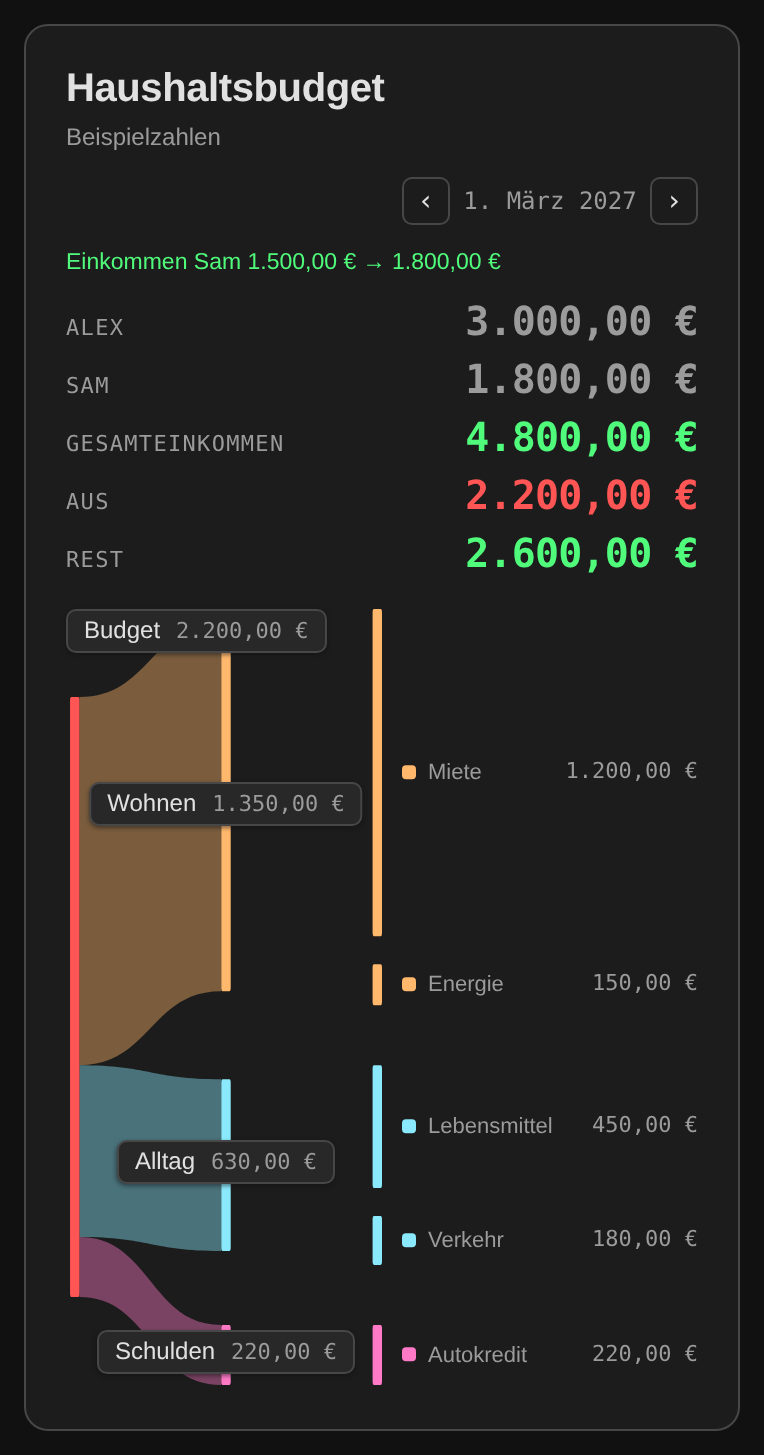
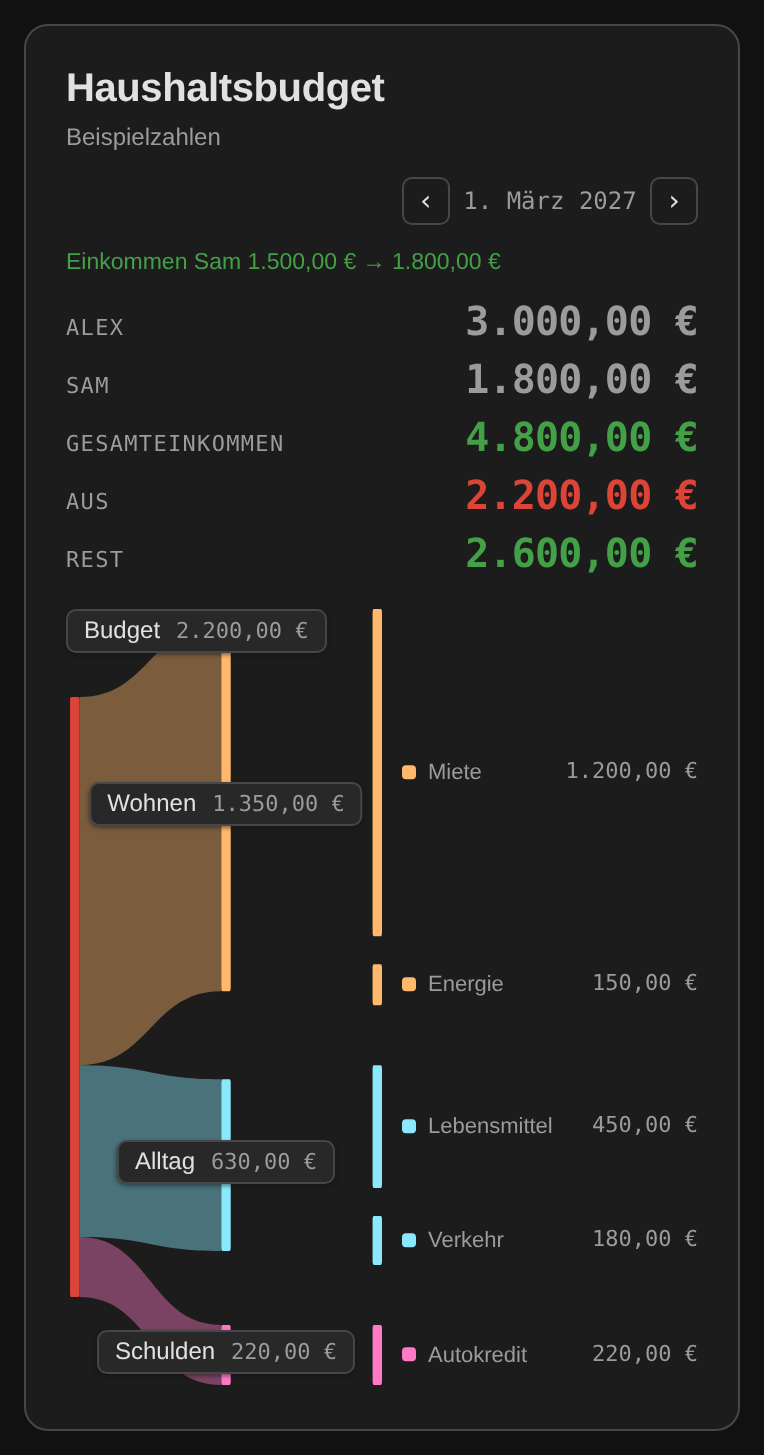
Take money colours from the Home Assistant theme
The fixed green and red were unreadable on light themes. Default to
--success-color and --error-color, keeping the old values as fallbacks,
and regenerate the screenshots.

diff --git a/test/budget-sankey-card.core.test.js b/test/budget-sankey-card.core.test.js
@@ -456,6 +456,11 @@ test("a hass update that leaves the money settings alone does not redraw", () =>
   assert.equal(html(el), "untouched");
 });
 
+test("money colours default to the Home Assistant theme", () => {
+  assert.equal(VIZ.moneyIn, "var(--success-color, #50fa7b)");
+  assert.equal(VIZ.moneyOut, "var(--error-color, #ff5555)");
+});
+
 test("fmt groups four-digit amounts in every locale", () => {
   assert.equal(fmt(1800, { currency: "PLN", locale: "pl" }), "1\u00a0800,00\u00a0zł");
   assert.equal(fmt(1800, { currency: "EUR", locale: "it" }), "1.800,00\u00a0€");

diff --git a/budget-sankey-card.js b/budget-sankey-card.js
@@ -30,8 +30,8 @@ const VIZ = {
   textPrimary: themeVar("text"),
   textSecondary: themeVar("text_secondary"),
   textMuted: themeVar("text_muted"),
-  moneyOut: "#ff5555",
-  moneyIn: "#50fa7b",
+  moneyOut: "var(--error-color, #ff5555)",
+  moneyIn: "var(--success-color, #50fa7b)",
   pending: "#ffb86c",
   accent: "#bd93f9",
   shadow1: themeVar("chip_shadow"),

diff --git a/README.md b/README.md
@@ -78,8 +78,8 @@ groups:
 | `currency` | Home Assistant's | ISO 4217 code, such as `EUR` |
 | `locale` | Home Assistant's | BCP 47 tag, such as `de-DE`, for amounts and dates |
 | `accent` | `negative_color` | Colour of the root node and the outgoing total |
-| `positive_color` | green | Income, a surplus, and good changes |
-| `negative_color` | red | A shortfall and bad changes |
+| `positive_color` | success colour | Income, a surplus, and good changes |
+| `negative_color` | error colour | A shortfall and bad changes |
 | `saving_color` | purple | Monthly saving on a yearly card |
 | `palette` | built-in | List of colours for groups without their own `color`; repeats if shorter than `groups` |
 | `theme` | Home Assistant's | Overrides for the card's look, see below |
